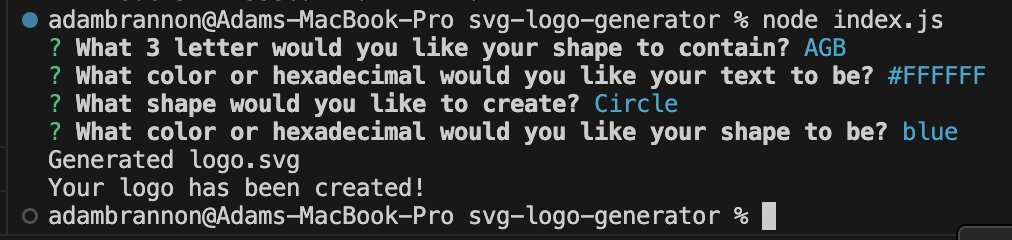
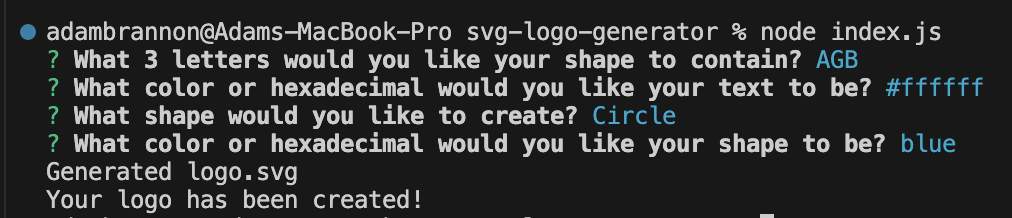
fixed typo and updated terminal screenshot to reflect that

diff --git a/index.js b/index.js
@@ -14,7 +14,7 @@ const prompts =
         { // Prompt for shape text
             type: 'input',
             name: 'letterChoice',
-            message: 'What 3 letter would you like your shape to contain?',
+            message: 'What 3 letters would you like your shape to contain?',
             // Validate that the user entered 3 letters
             validate: function (letterChoice) {
                 if (letterChoice.length !== 3) {
